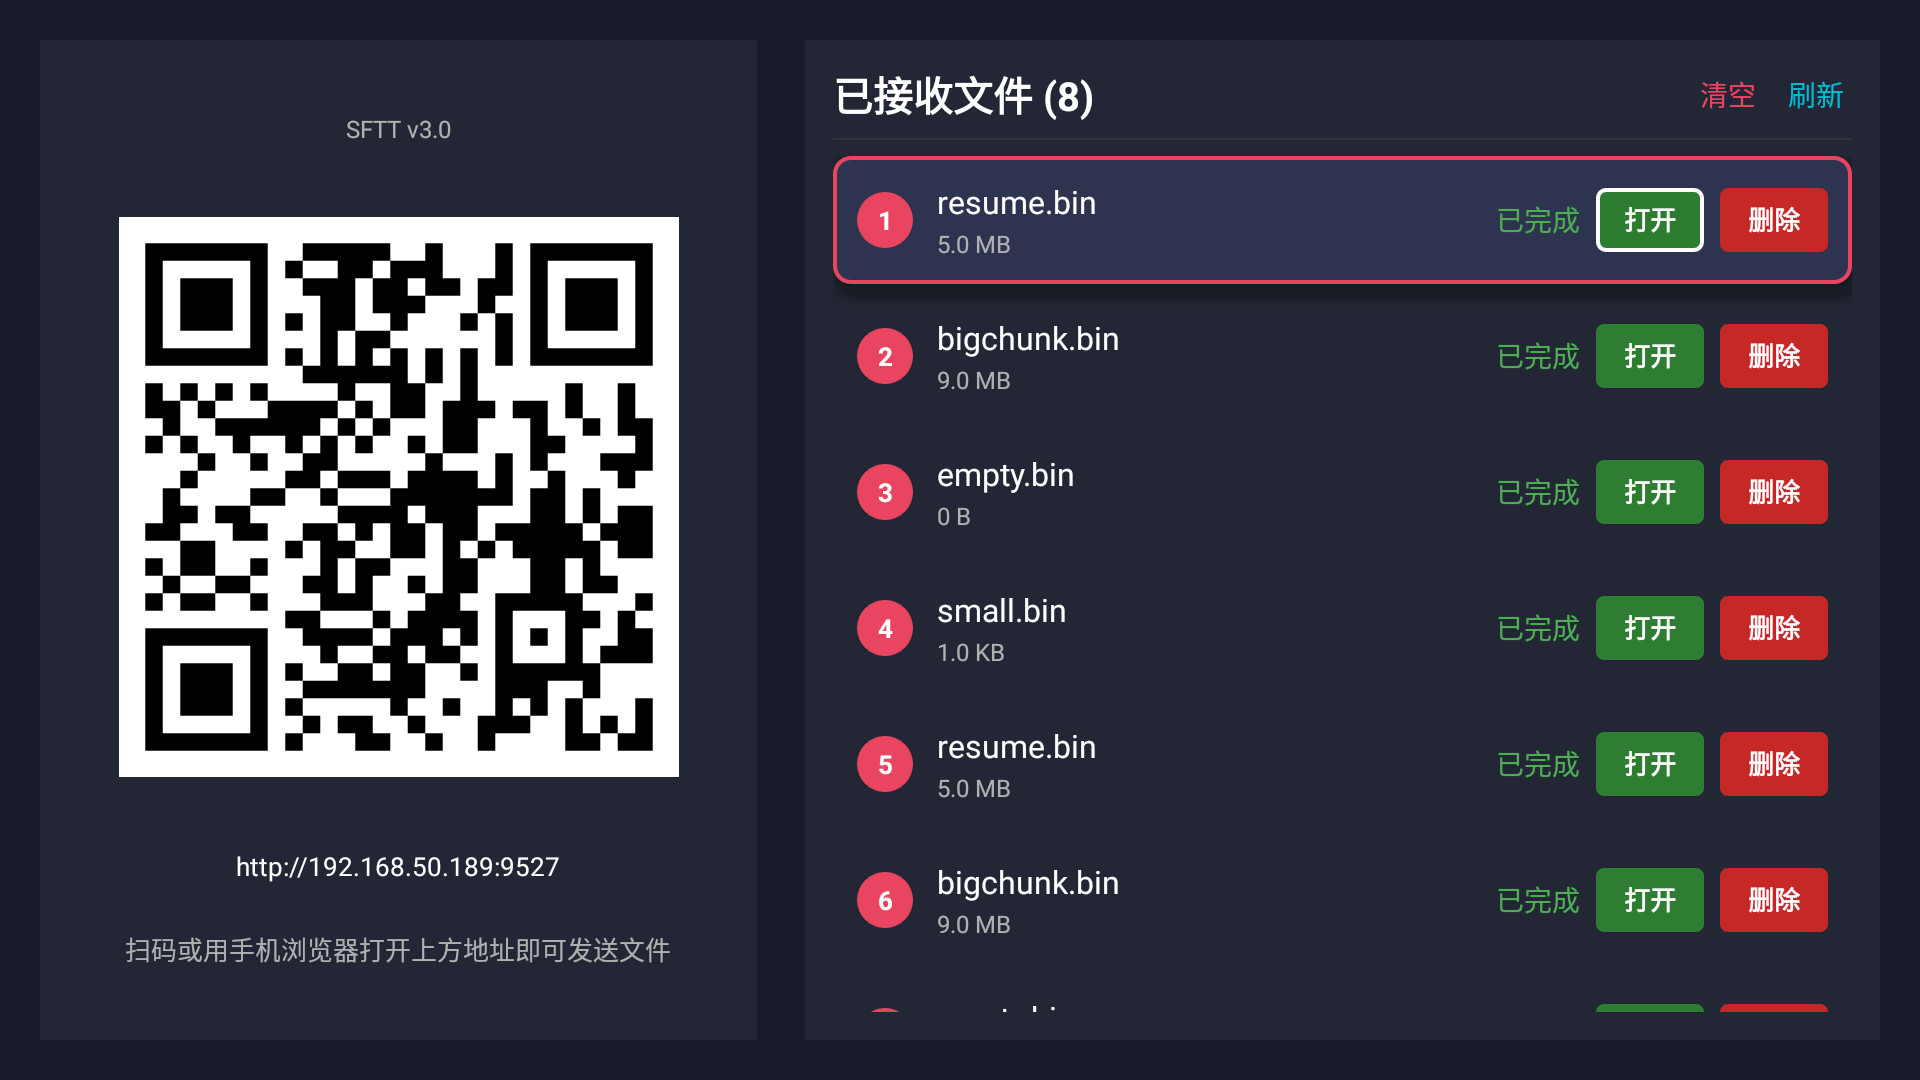
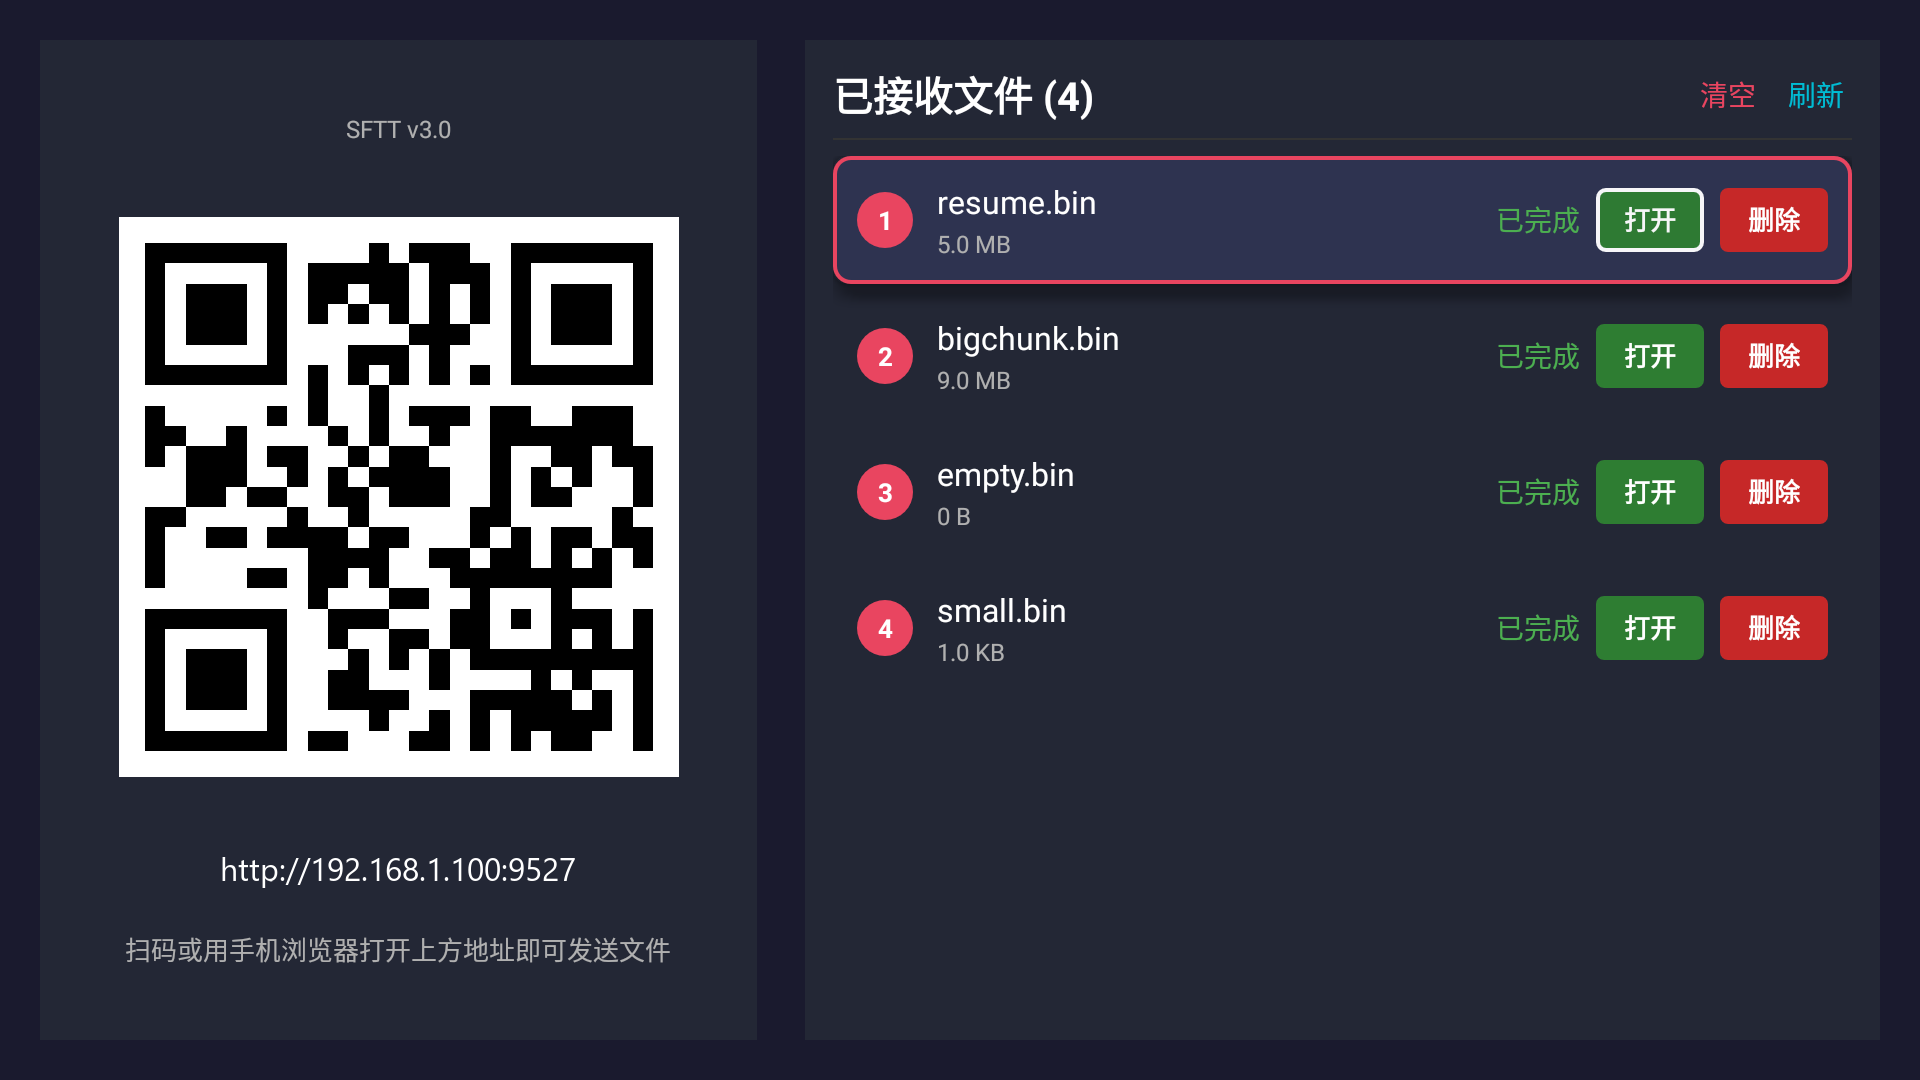
docs: 脱敏仓库内容，移除个人与本机环境信息
- README.md / android/README.md：替换内网 IP 与个人化措辞
- 截图：重新生成二维码并重绘地址，移除真实内网地址
- 构建与验证脚本：改为从环境变量/PATH 定位工具链，不写死本机路径
- 上传脚本：仓库地址改为环境变量 GITHUB_REPO

功能代码未改动，仅调整文档与辅助脚本。

diff --git a/http_selftest.py b/http_selftest.py
@@ -24,7 +24,7 @@ HTTP 服务器**发起并发分块上传，验证：
  10. 大分块协商（4 MiB）      -> 服务端必须按客户端声明的分块大小计算偏移
  11. 文件清单排序             -> 最新上传的文件必须排在最前面
 
-由于 TV 端是 Android APK，本沙箱无真机，无法直接启动该服务器。因此本脚本有两种用法：
+由于 TV 端是 Android APK，测试环境无法直接启动该服务器。因此本脚本有两种用法：
 
     A. 协议自检模式（默认，无需设备）：
         python http_selftest.py --self

diff --git a/selftest.py b/selftest.py
@@ -1,7 +1,7 @@
 #!/usr/bin/env python3
 """端到端自检：进程内验证 自动发现 + 分块并发传输 + SHA256 完整性校验。
 
-不依赖外部网络，全部在 127.0.0.1 完成，便于 CI / 沙箱验证。
+不依赖外部网络，全部在 127.0.0.1 完成，便于 CI 验证。
 运行：python selftest.py
 """
 

diff --git a/stress_test.py b/stress_test.py
@@ -13,7 +13,7 @@
   4. 断点续传在**真实设备**上的表现：中断 -> 重连 -> 只补传缺失分片。
 
 用法：
-    python stress_test.py --host 192.168.50.189 --port 9527 [--big-mb 300] [--many 60]
+    python stress_test.py --host 192.168.1.100 --port 9527 [--big-mb 300] [--many 60]
 """
 
 import argparse

diff --git a/README.md b/README.md
@@ -52,9 +52,9 @@
 
 ---
 
-## 二、真机验证结果（VIDAA_TV / Android 9）
+## 二、真机验证结果（Android 9 电视设备）
 
-在真实电视设备（VIDAA_TV，Android 9，IP `192.168.50.189`）上完成的端到端验证：
+在真实电视设备（Android 9，IP `192.168.1.100`）上完成的端到端验证：
 
 | 验证项 | 结果 |
 |--------|------|
@@ -80,8 +80,8 @@
 | **大量文件（60 个）** | ✅ **60/60 成功**，8.6s；`/api/files` 清单**按时间倒序**，最新上传的排在最前面 |
 | **源码级一致性** | ✅ JVM harness 跑**真实 Kotlin `HttpUploadServer`**，同样 22/22 全绿 |
 
-> 电视端已通过 `adb connect 192.168.50.189:5555` 直连安装 APK 完成全部验证。
-> 压测复现：`python stress_test.py --host 192.168.50.189 --port 9527 --adb 192.168.50.189:5555`
+> 电视端已通过 `adb connect 192.168.1.100:5555` 直连安装 APK 完成全部验证。
+> 压测复现：`python stress_test.py --host 192.168.1.100 --port 9527 --adb 192.168.1.100:5555`
 
 ---
 
@@ -110,7 +110,7 @@ LanFileTransfer/
 ### 电视端（接收）
 ```bash
 python tv_receiver.py                         # 默认 0.0.0.0，接收目录 ./received
-python tv_receiver.py --out-dir D:/recv --name "客厅电视"
+python tv_receiver.py --out-dir ./received --name "客厅电视"
 python tv_receiver.py --host 127.0.0.1        # 仅本机环回，便于联调
 ```
 
@@ -136,7 +136,7 @@ python phone_sender.py --threads 16 *.iso       # 指定并发数
 - **Android NSD**：手机端用 `NsdManager` 发现 `_lanfile._tcp.` 服务，TXT 记录带 `dp`（数据端口）与 `hp`（HTTP 端口）。
 - **UDP 广播**：电视端每 3 秒向 `255.255.255.255` 与各网卡定向广播地址发送信标；手机端广播 `DISCOVER` 时电视端立即单播应答。
   - 报文格式兼容两种写法：`"LFT1" + JSON` 前缀形式，或纯 JSON（含 `"magic":"LFT1"` 字段）。
-  - 报文示例：`{"magic":"LFT1","t":"announce","v":1,"name":"局域网电视 (VIDAA_TV)","device_id":"...","ip":"192.168.50.189","tcp_port":41235,"http_port":9527}`
+  - 报文示例：`{"magic":"LFT1","t":"announce","v":1,"name":"局域网电视","device_id":"...","ip":"192.168.1.100","tcp_port":41235,"http_port":9527}`
 - **二维码**：电视端屏幕显示 `http://<IP>:9527`，手机浏览器扫码即传（零安装）。
 
 ### 传输层 A：TCP（控制端口 41235 / 数据端口 41236）
@@ -266,14 +266,14 @@ bash ../verify_kotlin_http.sh
 
 ```bash
 # 一键联调：安装 TV APK → 启动服务 → 双通道端到端验证 → 校验落盘哈希 → 清理
-bash live_verify.sh 192.168.50.189
+bash live_verify.sh 192.168.1.100
 ```
 
 ### 压测（大文件 / 断点续传 / 大量文件）
 
 ```bash
 # 对真实电视端压测：300MB 大文件 + 断点续传 + 60 个文件并发上传与排序
-python stress_test.py --host 192.168.50.189 --port 9527 --adb 192.168.50.189:5555
+python stress_test.py --host 192.168.1.100 --port 9527 --adb 192.168.1.100:5555
 ```
 
 实测结果见第二节「压测」表。
@@ -283,10 +283,10 @@ python stress_test.py --host 192.168.50.189 --port 9527 --adb 192.168.50.189:555
 端到端测试，并用 `sha256sum` 核对电视端落盘文件。
 
 ### 验证边界
-- **已在真机验证**（VIDAA_TV / Android 9）：UDP 自动发现、TCP 通道多文件并发传输、
+- **已在真机验证**（Android 9 电视设备）：UDP 自动发现、TCP 通道多文件并发传输、
   整文件 SHA-256 一致性、HTTP 通道 13/13、错误哈希拒绝。
 - **尚未验证**：Android 手机端 App 与 Android 电视端之间的 **NSD 自动发现**链路
-  （本沙箱无 Android 手机设备；但两端代码共用同一套 NSD 服务类型与 TXT 记录格式，
+  （测试环境无 Android 手机设备；但两端代码共用同一套 NSD 服务类型与 TXT 记录格式，
   且 UDP 通道已验证可跨语言互通）。
 
 ---

diff --git a/android/README.md b/android/README.md
@@ -89,7 +89,7 @@ bash build/build.sh --clean    # 先 clean 再编译
 ```
 
 `build/build.sh` 会自动定位 JDK / Gradle / Android SDK，并**动态探测代理**：
-沙箱代理端口会随会话漂移，写死会报 `Connect to 127.0.0.1:xxxxx failed: Connection refused`，
+代理端口可能随环境漂移，写死会报 `Connect to 127.0.0.1:xxxxx failed: Connection refused`，
 脚本会在构建前探测代理是否真的能出数据，不能则自动直连。
 
 ### 产物
@@ -129,7 +129,7 @@ Maven 版 `org.json:json` 替代（API 兼容）。
 
 ### 5.3 真机联调（已在真机通过）
 
-在真实电视设备（VIDAA_TV / Android 9，IP `192.168.50.189`）上完成验证：
+在真实电视设备（Android 9，IP `192.168.1.100`）上完成验证：
 
 | 验证项 | 结果 |
 |--------|------|
@@ -144,12 +144,12 @@ Maven 版 `org.json:json` 替代（API 兼容）。
 
 ```bash
 # 需电视已开启网络 ADB（5555）并在屏幕确认授权
-bash ../live_verify.sh 192.168.50.189
+bash ../live_verify.sh 192.168.1.100
 ```
 
 ### 5.4 排障：设备屏蔽应用 logcat
 
-部分定制 ROM（如 VIDAA）会**完全屏蔽第三方应用的 logcat 输出**，
+部分定制电视 ROM 会**完全屏蔽第三方应用的 logcat 输出**，
 `adb logcat | grep <TAG>` 查不到任何内容。此时改用**文件日志**取证：
 
 电视端会把关键状态写入 `<外部私有目录>/tvserver-diag.log`
